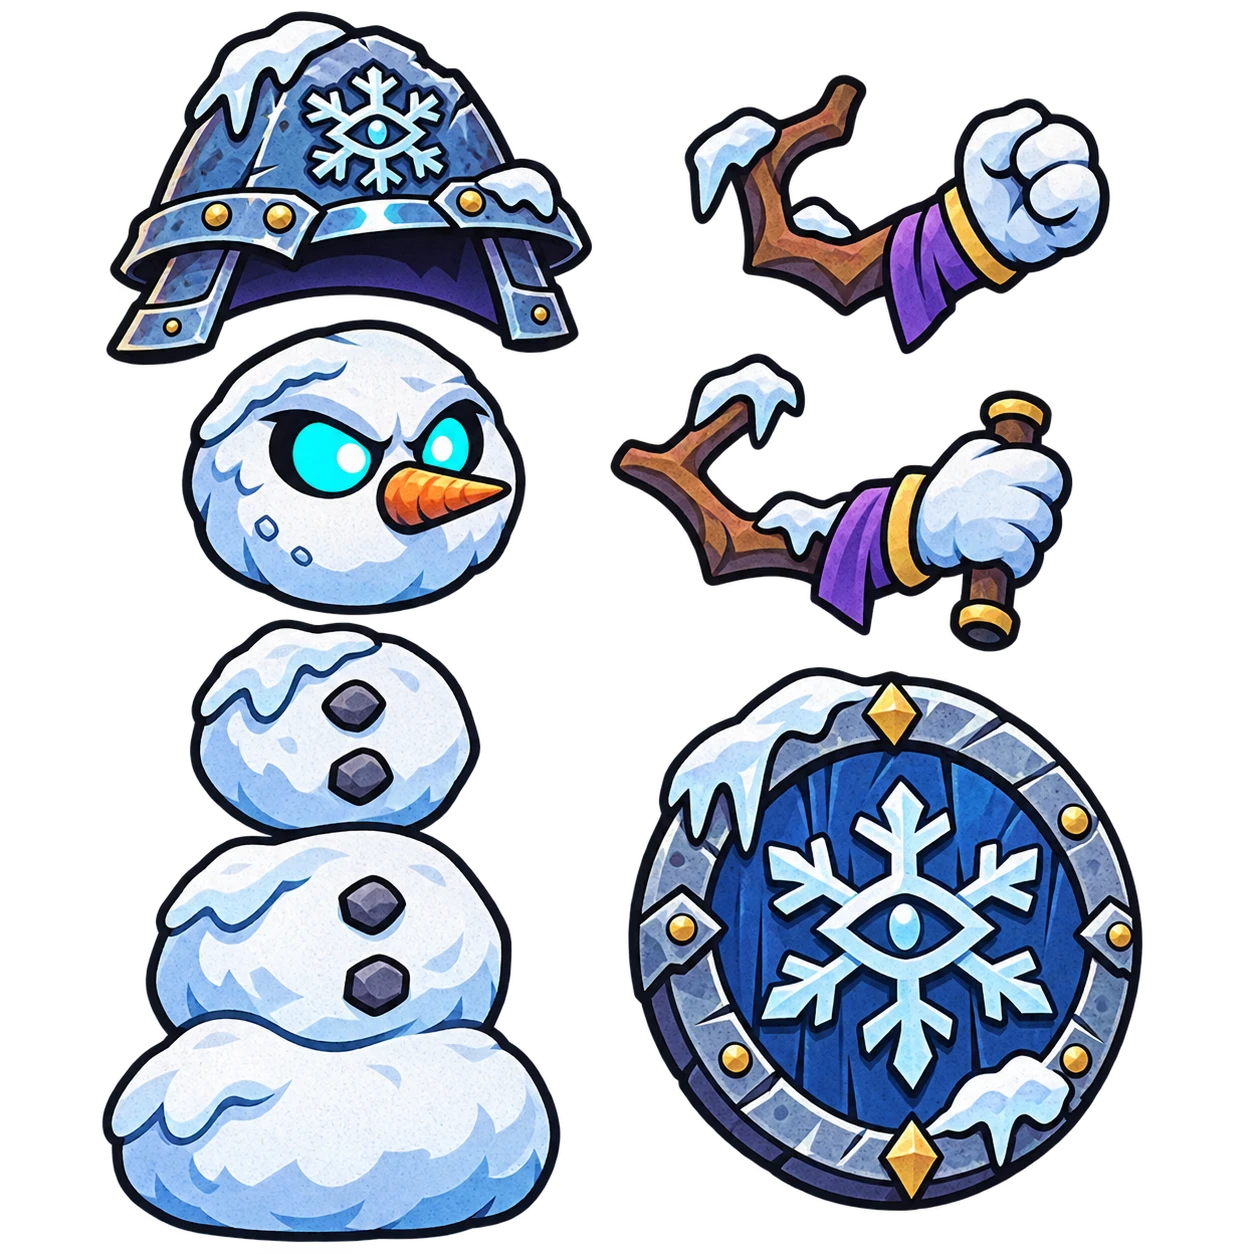
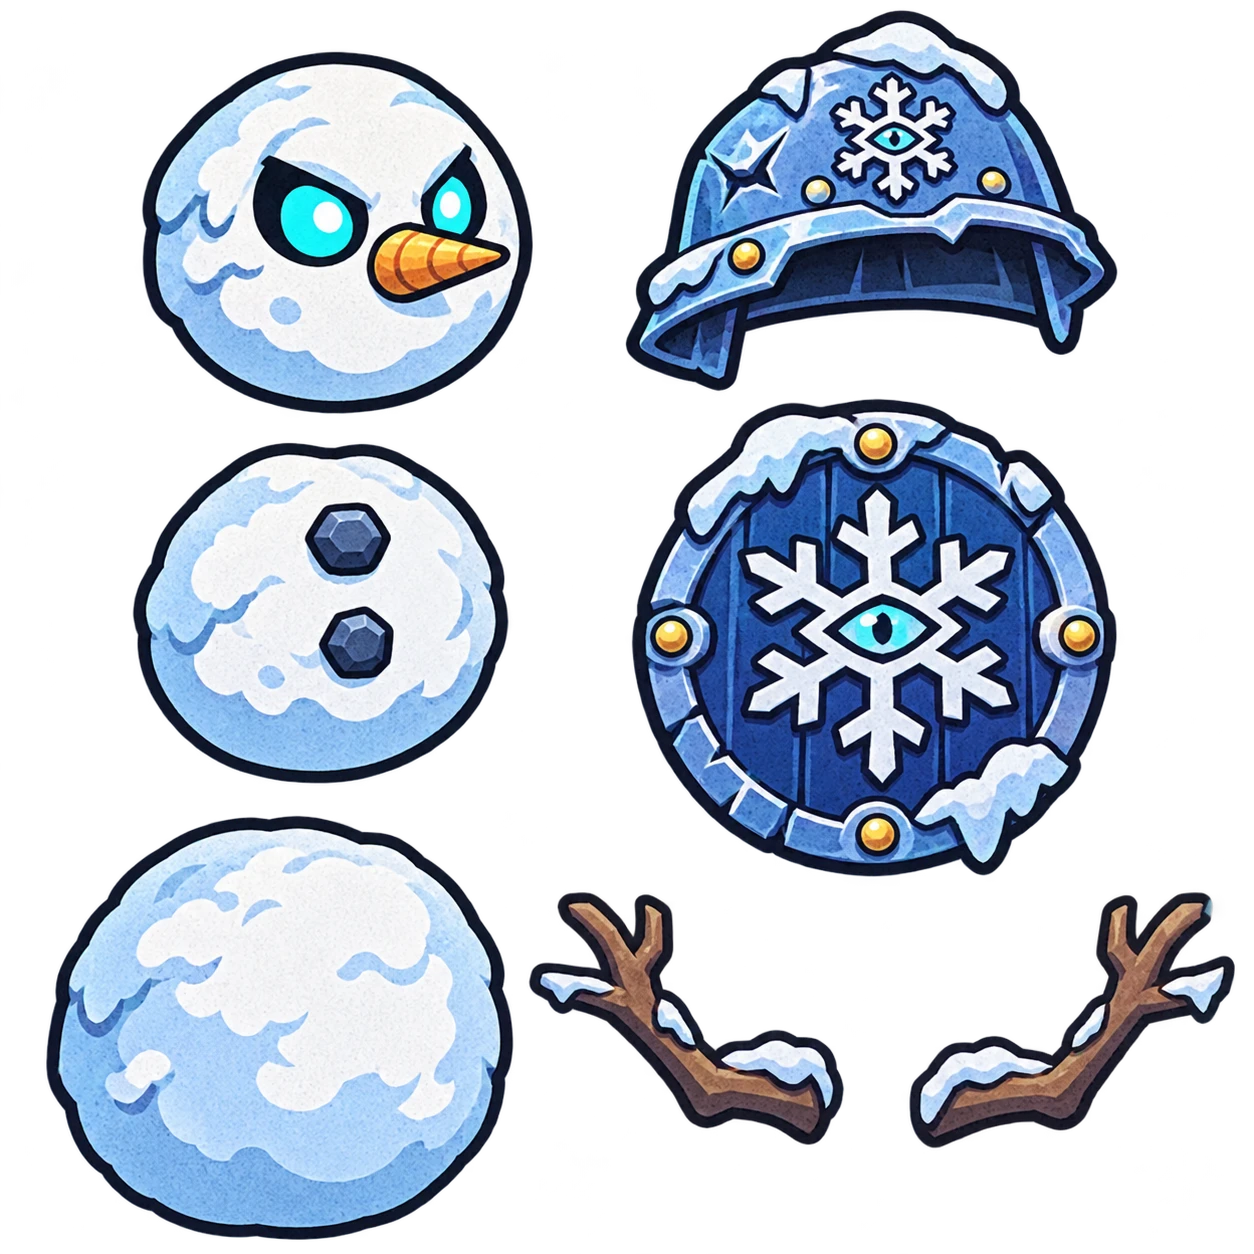
Snowman layers redo: three separate balls; keep v1 helmet/shield/arms; README note
Claude-Session: https://claude.ai/code/session_016UNRkcnvvb8ZB2BPQxJshR

diff --git a/art/layers/README.md b/art/layers/README.md
@@ -11,7 +11,7 @@ Regenerate with `art/tools/slice_layers.py` (names are given in reading order).
 | h5_fox | head, body, tail, crystal_l/c/r, eye_l, eye_r, lid_l, lid_r | complete |
 | w_wisp | ribbon, crown, eye_l, eye_r, cheek_l, cheek_r, scrap_a/b/c (loose ribbon wisps), sparkle_big, sparkle_l, sparkle_r | complete |
 | s_codex | cover, book (open, with pages), glow (cyan light + snowflakes), strap | complete |
-| h4_snowman | helmet, arm_a, arm_b, shield, **snowman_stack** | **redo**: head + 2 snowballs merged into one piece |
+| h4_snowman | head, mid_ball, base_ball (3 separate balls, redo), helmet, shield, arm_l, arm_r; plus v1 parts kept: helmet_v1, shield_v1, arm_fist_v1, arm_stick_v1 | complete (see note) |
 
 Notes
 - The parts are redrawn versions of the static symbols (same design, not pixel-identical), and the sheet does not say where each part goes.
@@ -19,3 +19,8 @@ Notes
   I tested automatic placement by template matching: unreliable (parts snapped to wrong places), so it was not used.
 - Heads of the owl and fox contain baked-in eyes; the lid parts are meant to be drawn over them for a blink.
 - The witch and yeti have no separate eyes, so only body motion (bob, hat/staff sway, arm swing) is possible for them.
+
+## Snowman note
+The redo sheet fixed the merged balls (head / middle / base are now separate). But its helmet, shield and arms are plainer than the static symbol
+(no gold trim, bare stick arms, no purple scarf, no spear with banner). Recommended mix for rigging: the **new three balls** + the **v1** helmet, shield and arms
+(they match the static art's gold studs and purple wraps). The scarf and spear are not in any layer sheet yet.
